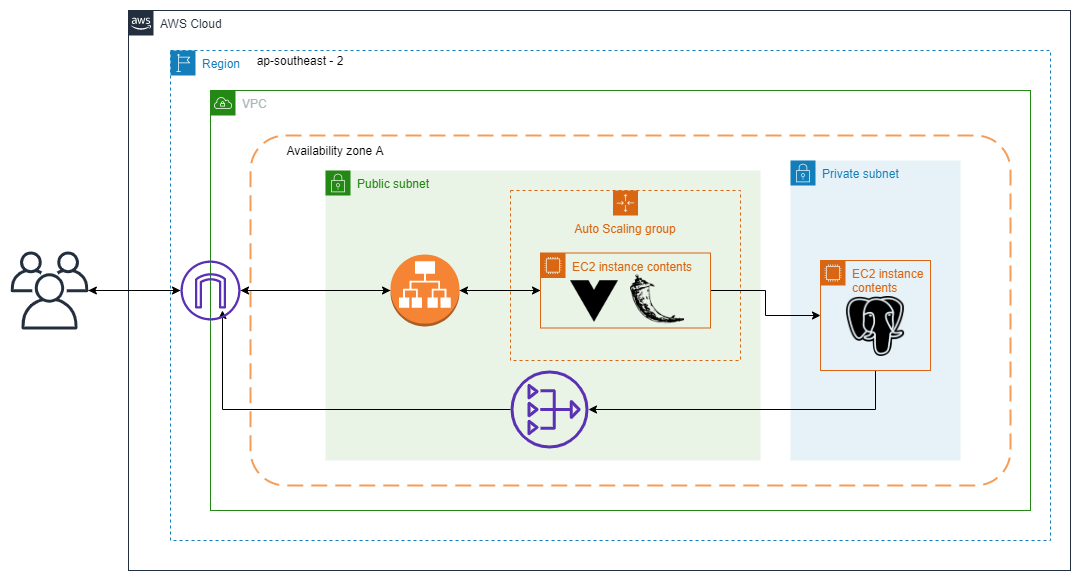
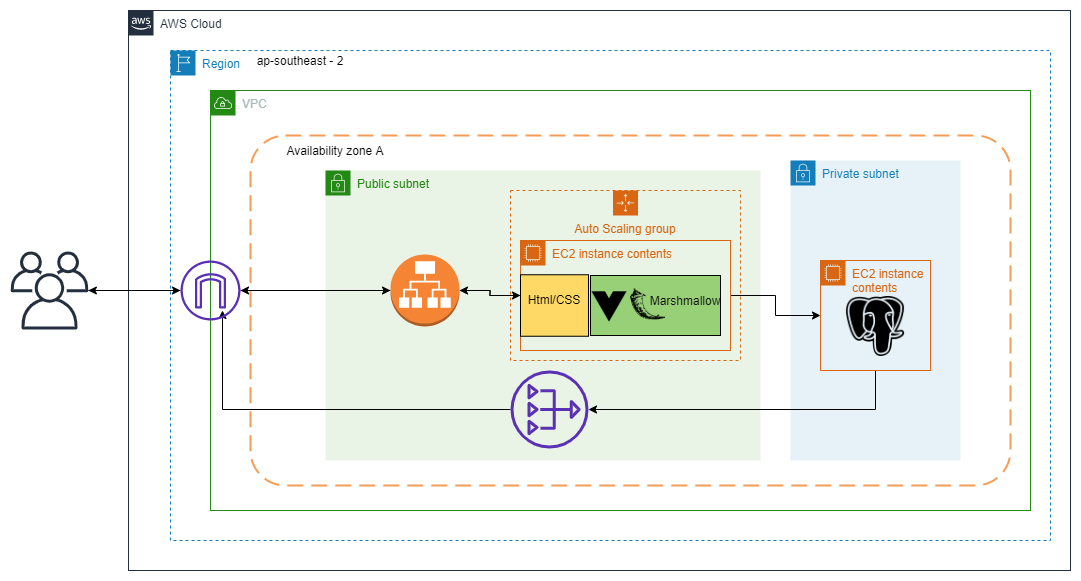
user stories

Changed region(s): [[0.4579, 0.4028, 0.7021, 0.5886]]

diff --git a/README.md b/README.md
@@ -50,9 +50,10 @@ The application will use the following tech stack along with each tech's purpose
 - **HTML/CSS** used for website content and styling
 - **AWS S3** used for image hosting
 - **AWS Frameworks** used for hosting the application in the cloud
+- **Marshmallow** used as an ORM
 
 #### Dataflow Diagram
-![data flow diagram](docs/FRdataflow.png)
+![infrastructure diagram](docs/FRdataflow.png)
 
 #### Application Architecture
 ![data flow diagram](docs/FRinfra.png)
@@ -67,14 +68,19 @@ The Infrastructure is as follows:
 - The private subnet will be able to communicate outbound to the the internet through the use of a NAT gateway in the public subnet and attached to the internet gateway.
 - For inbound traffic, the application EC2 will also serve as a jumpbox.
 - The private subnet will house an EC2 with a postgreSQL server on it for the applications database
-- The application consists of javascript's Vue for the front end and Flask for the web framework
+- The application consists of javascript's Vue for templating, HTML/CSS for front end, Flask for the web framework and Marshmallow as an ORM 
 - This application EC2 sits behind an application load balancer
 - This application EC2 also will sit within an Auto Scaling Group, if the application starts getting many requests, another EC2 with the same launch template will be spun up.
-- When more than one EC2 is running the load balancer will direct traffic to make sure neither EC2 is bein overloaded with requests.
+- When more than one EC2 is running the load balancer will direct traffic to make sure neither EC2 is being overloaded with requests.
+- All security group configurations will be appropriately configured.
 
+#### User Stories
 
+**Brainstorming**
+![brainstorming user stories](docs/brainstorming.PNG)
 
-
+**Revised**
+![revised user stories](docs/revised.PNG)
 
 
 
